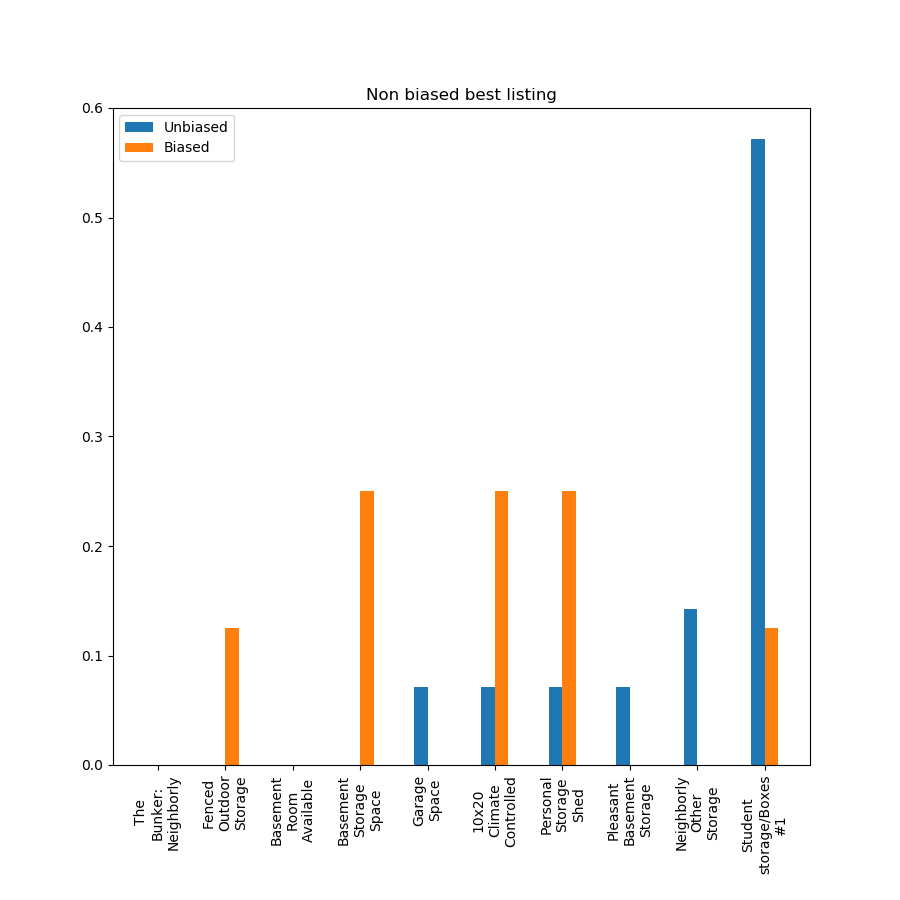
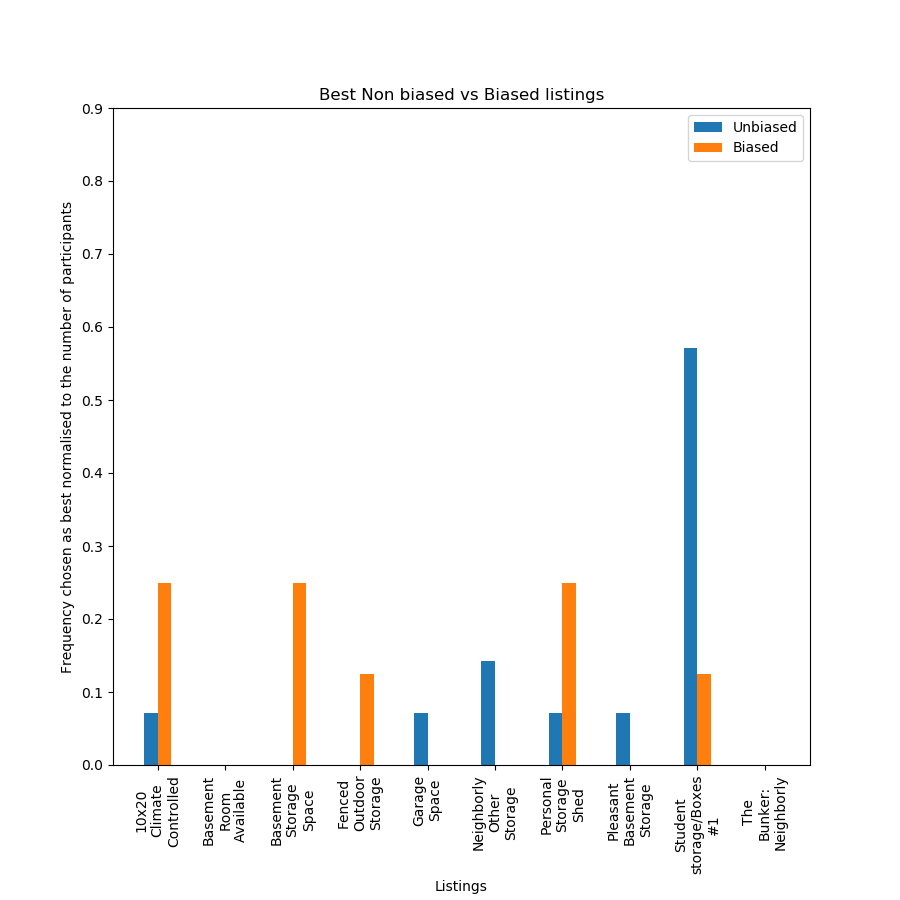
Done

diff --git a/dataparse.py b/dataparse.py
@@ -122,7 +122,7 @@ def get_freqs(order, biased_order):
         idx = np.argmax(lengths)
         biased_result[names[idx]] += 1
 
-    merged_result = [(key, value, biased_result[key]) for key, value in sorted(result.items(), key=(lambda x: x[1]))]
+    merged_result = [(key, value, biased_result[key]) for key, value in sorted(result.items(), key=(lambda x: x[0]))]
     biased_freqs = []
     freqs = []
     labels = []
@@ -138,6 +138,7 @@ def get_freqs(order, biased_order):
 
 def get_freqs_worst(order, biased_order):
     lengths, all_names = list(zip(*order[0]))
+    print(all_names)
     result = {name : 0 for name in all_names}
     biased_result = {name : 0 for name in all_names}
     
@@ -151,7 +152,7 @@ def get_freqs_worst(order, biased_order):
         idx = np.argmin(lengths)
         biased_result[names[idx]] += 1
 
-    merged_result = [(key, value, biased_result[key]) for key, value in sorted(result.items(), key=(lambda x: x[1]))]
+    merged_result = [(key, value, biased_result[key]) for key, value in sorted(result.items(), key=(lambda x: x[0]))]
     biased_freqs = []
     freqs = []
     labels = []
@@ -160,29 +161,14 @@ def get_freqs_worst(order, biased_order):
         biased_freqs.append(item[2])
         labels.append("\n".join(item[0].split(" ")[:3]))
     
-
     biased_freqs = list(map (lambda x: x / sum(biased_freqs), biased_freqs))
     freqs = list(map (lambda x: x / sum(freqs), freqs))
     return (labels, freqs, biased_freqs)
 
-
-    # lengths, names = list(zip(*order[0]))
-    # result = {name : 0 for name in names}
-
-    # for sub in order: 
-    #     lengths, names = list(zip(*sub))
-    #     idx = np.argmin(lengths)
-    #     result[names[idx]] += 1
-    
-    # labels = ["\n".join(x.split(" ")[:3]) for _, x in sorted(zip(result.values(), result.keys()))]
-    # freqs = sorted(list(result.values()))
-    # freqs = list(map (lambda x: x / sum(freqs), freqs))
-    # return (labels, freqs)
-
 """
  - Takes the both the best and worst listings and puts them into a frequency barchart.
 """
-def graph_freq(order, biased_order, name, title):
+def graph_freq(order, biased_order, title):
     labels, freqs, biased_freqs = get_freqs(order, biased_order)
     # biased_labels, biased_freqs = get_freqs(biased_order)
 
@@ -196,15 +182,18 @@ def graph_freq(order, biased_order, name, title):
                 label='Biased')
 
     plt.xticks(ind, labels, rotation='vertical', weight="8")
-    plt.title(title.format("best"))
+    plt.title(title.format("Best"))
     plt.legend()
+    plt.ylabel("Frequency chosen as best normalised to the number of participants")
+    plt.xlabel("Listings")
+
+    plt.ylim(0, 0.9)
     plt.subplots_adjust(bottom=0.15)
 
     plt.savefig("./graphs/best_both.png")
 
     
     labels, freqs, biased_freqs = get_freqs_worst(order, biased_order)
-    # labels, freqs, biased_labels, biased_freqs = get_freqs_worst(biased_order)
 
     ind = np.arange(len(freqs))
     width = 0.2
@@ -215,11 +204,13 @@ def graph_freq(order, biased_order, name, title):
     rects2 = ax.bar(ind + width/2, biased_freqs, width,
                 label='Biased')
 
+    plt.ylim(0, 0.9)
     plt.xticks(ind, labels, rotation='vertical', weight="8")
-    plt.title(title.format("best"))
+    plt.ylabel("Frequency chosen as worst normalised to the number of participants")
+    plt.xlabel("Listings")
     plt.legend()
     plt.subplots_adjust(bottom=0.15)
-    plt.title(title.format("worst"))
+    plt.title(title.format("Worst"))
     plt.savefig("./graphs/worst_both.png")
 
 
@@ -294,11 +285,20 @@ def get_googleform_times(objects):
         res.append({'id':item['id'], 'ts':item['ts']})
     return res
         
+def create_samplePlot(biased, listings):
+    plt.figure()
+    plt.bar(np.arange(0,2), [len(listings), len(biased)])
+    plt.xticks(np.arange(0,2), ["Non-Biased", "Biased",])
+    plt.title("Distribution Biased vs Non Biased")
+    plt.ylabel("Frequency")
+    plt.savefig("./graphs/sample.png")
+
+
 if __name__ == "__main__":
     response = get_response()
     # print(response)
     biased, listings = parse_response(response)
-    graph_freq(listings, biased, "Non_biased", "Non biased {} listing")
+    graph_freq(listings, biased, "{} Non biased vs Biased listings")
     # graph_freq(biased, "Biased", "Biased {} listing, n = {}")
 
 
@@ -309,3 +309,4 @@ if __name__ == "__main__":
     print("==crossref google==")
     print(get_googleform_times(objects))
 
+    create_samplePlot(biased, listings)
